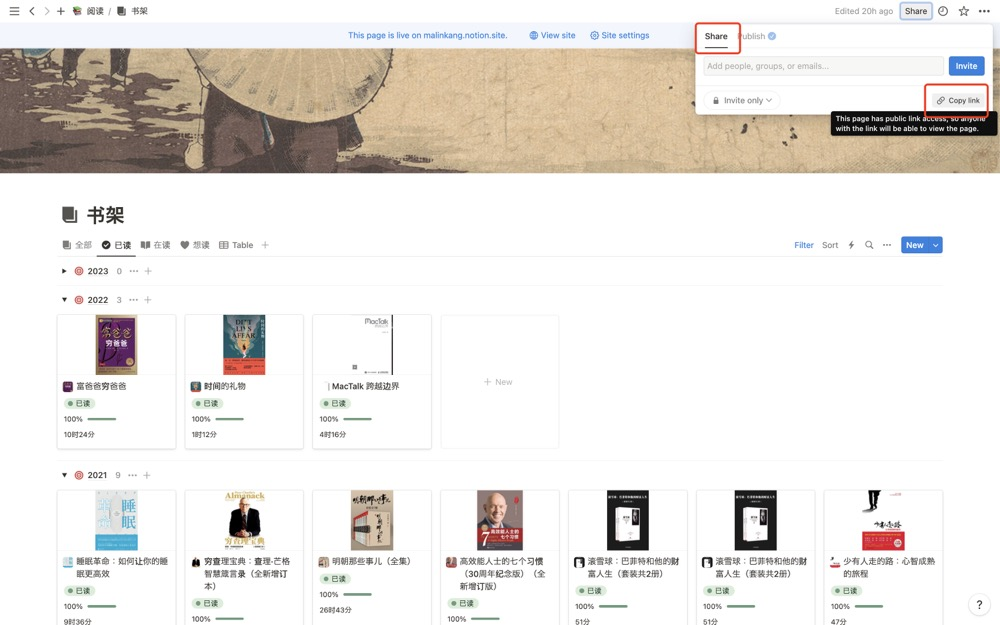
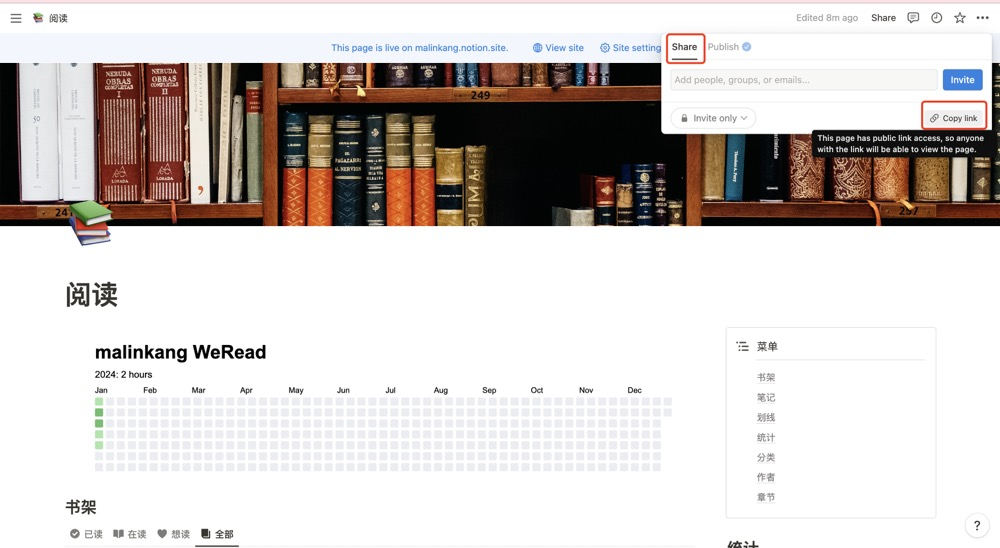
update

diff --git a/weread2notion-pro/index.md b/weread2notion-pro/index.md
@@ -18,11 +18,31 @@ tags:
 
 ## 使用
 
+{{< notice warning >}} 
+Weread2Notion和Weread2Notion-Pro是两个不同的项目，模板也不相同，切勿用错模板。
+Weread2Notion教程：https://malinkang.com/posts/weread2notion/
+热力图使用教程：https://malinkang.com/posts/github_heatmap/
+{{< /notice >}}
+
 ### Fork工程
 
-打开[Weread2Notion](https://github.com/malinkang/weread2notion-pro)，点击右上角的Fork（顺便点个star谢谢）
+打开[Weread2Notion-Pro](https://github.com/malinkang/weread2notion-pro)，点击右上角的Fork（顺便点个star谢谢）
 
 ![](images/fork.jpg)
+
+### 权限
+
+确保你打开了读写权限。
+
+依次选择Settings->Actions->General，然后下拉，找到Workflow permissions，如果没有选中Read and write permissions，请选中，然后点下面的save保存。
+
+![](images/permissions1.jpg)
+
+
+![](images/permissions2.jpg)
+
+
+
 
 ### 获取微信读书Cookie
 
@@ -57,32 +77,13 @@ tags:
 
 ![](images/connections.jpg)
 
-3. 点击右上角的Share，然后点击Copy link获取database的链接，获取链接后比如 https://malinkang.notion.site/e27842548a6d4a81bc7aea736d90d6dd?v=b255858d3eaa409f97f1ecb32a14a5b6&pvs=4 中间的e27842548a6d4a81bc7aea736d90d6dd就是DatabaseID
+3. 点击右上角的Share，然后点击Copy link获取页面的链接。
 ![](images/copy.jpg)
 
-我们要依次获取下图这10个Datebase的ID。依次选中Database，然后按照上面的操作获取ID。
 
-{{< notice warning >}}注意不是获取阅读这个Page的ID{{< /notice >}}
-
-![](images/database.jpg)
+{{< notice warning >}} 这里是通过数据库的名字来自动获取对应的ID的，所以请先不要修改数据库的名字。{{< /notice >}}
 
 
-每个ID对应一个KEY，对应关系如下：
-
-| KEY   |      数据库名字      |
-|----------|:-------------:|
-| BOOK_DATABASE_ID|  书架 |
-| REVIEW_DATABASE_ID|    笔记   |
-| BOOKMARK_DATABASE_ID| 划线 |
-| CATEGORY_DATABASE_ID| 分类 |
-|AUTHOR_DATABASE_ID| 作者 |
-|CHAPTER_DATABASE_ID| 章节 |
-|DAY_DATABASE_ID| 日 |
-|WEEK_DATABASE_ID| 周|
-|MONTH_DATABASE_ID| 月 |
-|YEAR_DATABASE_ID| 年 |
-
-{{< notice warning >}} 这一步因为涉及的数据库比较多，所以非常容易出错，在获取的过程建议直接将KEY对应好，后面填的时候才不容易出错。{{< /notice >}}
 
 ### 在Github的Secrets中添加变量
 
@@ -94,7 +95,7 @@ tags:
 
 ![](images/secret2.jpg)
 
-3. 同理，继续点击New repository secret，分别增加变量NOTION_TOKEN和NOTION_DATABASE_ID。最终的结果如下图所示。
+3. 同理，继续点击New repository secret，分别增加变量名NOTION_TOKEN和NOTION_PAGE。NOTION_TOKEN的值为前面获取的NOTION_TOKEN值，NOTION_PAGE值为前面获取的页面链接，最终的结果如下图所示。
 
 ![](images/secret3.jpg)
 
@@ -132,20 +133,12 @@ tags:
 > 本项目设置的是utc时间的0点，如果你在中国，那就是每天8点同步。不过据我观察，Github这个可能有延迟，会在每天8点零几分同步。你也可以自行修改同步时间，具体参考[这里](https://docs.github.com/zh/actions/using-workflows/events-that-trigger-workflows#schedule)。
 
 
-
 ## 升级
 
 打开你Fork的项目，点击Sync fork进行同步
 ![](https://docs.github.com/assets/cb-75616/mw-1440/images/help/repository/sync-fork-dropdown.webp)
 
 当然你也可以上面使用中提到的步骤重新来一遍。
-
-## 群
-
-欢迎加入微信群讨论。使用中遇到的任何问题，包括Notion的使用，微信读书组队打卡，后续的更新都会在群里讨论。
-
-
-![](images/group.jpg)
 
 ## 捐赠
 
@@ -159,3 +152,18 @@ tags:
 ### 支付宝
 
 ![](images/alipay.jpg)
+
+## 付费解答
+
+有问题先自行解决，往往失败都是一些小细节没注意导致的。我的文档写的已经足够详细，按照文档来操作基本都能成功。你也可以尝试在群里咨询。不要直接加我微信来让我来解答，这个项目我已经投入了大量时间来开发维护，实在没有更多的精力来一对一解答。如果实在解决不了，可以付费一对一咨询，30元一位。付完款可以微信私聊我。
+
+![](images/wexin.jpg)
+
+
+## 群
+
+欢迎加入微信群讨论。使用中遇到的任何问题，包括Notion的使用，微信读书组队打卡，后续的更新都会在群里讨论。
+
+
+![](images/group.jpg)
+

diff --git a/weread2notion/index.md b/weread2notion/index.md
@@ -16,11 +16,30 @@ tags:
 
 ## 使用
 
+{{< notice warning >}} 
+Weread2Notion和Weread2Notion-Pro是两个不同的项目，模板也不相同，切勿用错模板。
+Weread2Notion-Pro教程：https://malinkang.com/posts/weread2notion-Pro/
+热力图使用教程：https://malinkang.com/posts/github_heatmap/
+{{< /notice >}}
+
 ### Fork工程
 
 打开[Weread2Notion](https://github.com/malinkang/weread2notion)，点击右上角的Fork（顺便点个star谢谢）
 
 ![](images/fork.jpg)
+
+
+### 权限
+
+确保你打开了读写权限。
+
+依次选择Settings->Actions->General，然后下拉，找到Workflow permissions，如果没有选中Read and write permissions，请选中，然后点下面的save保存。
+
+![](images/permissions1.jpg)
+
+
+![](images/permissions2.jpg)
+
 
 ### 获取微信读书Cookie
 
@@ -114,13 +133,6 @@ tags:
 
 当然你也可以上面使用中提到的步骤重新来一遍。
 
-## 群
-
-欢迎加入微信群讨论。使用中遇到的任何问题，包括Notion的使用，微信读书组队打卡，后续的更新都会在群里讨论。
-
-
-![](images/group.jpg)
-
 ## 捐赠
 
 如果你觉得项目对你有帮助，可以捐赠。我也会不断的优化项目，并做出其他开源的项目。
@@ -133,3 +145,17 @@ tags:
 ### 支付宝
 
 ![](images/alipay.jpg)
+
+## 付费解答
+
+有问题先自行解决，往往失败都是一些小细节没注意导致的。我的文档写的已经足够详细，按照文档来操作基本都能成功。你也可以尝试在群里咨询。不要直接加我微信来让我来解答，这个项目我已经投入了大量时间来开发维护，实在没有更多的精力来一对一解答。如果实在解决不了，可以付费一对一咨询，30元一位。付完款可以微信私聊我。
+
+![](images/wexin.jpg)
+
+## 群
+
+欢迎加入微信群讨论。使用中遇到的任何问题，包括Notion的使用，微信读书组队打卡，后续的更新都会在群里讨论。
+
+
+![](images/group.jpg)
+
